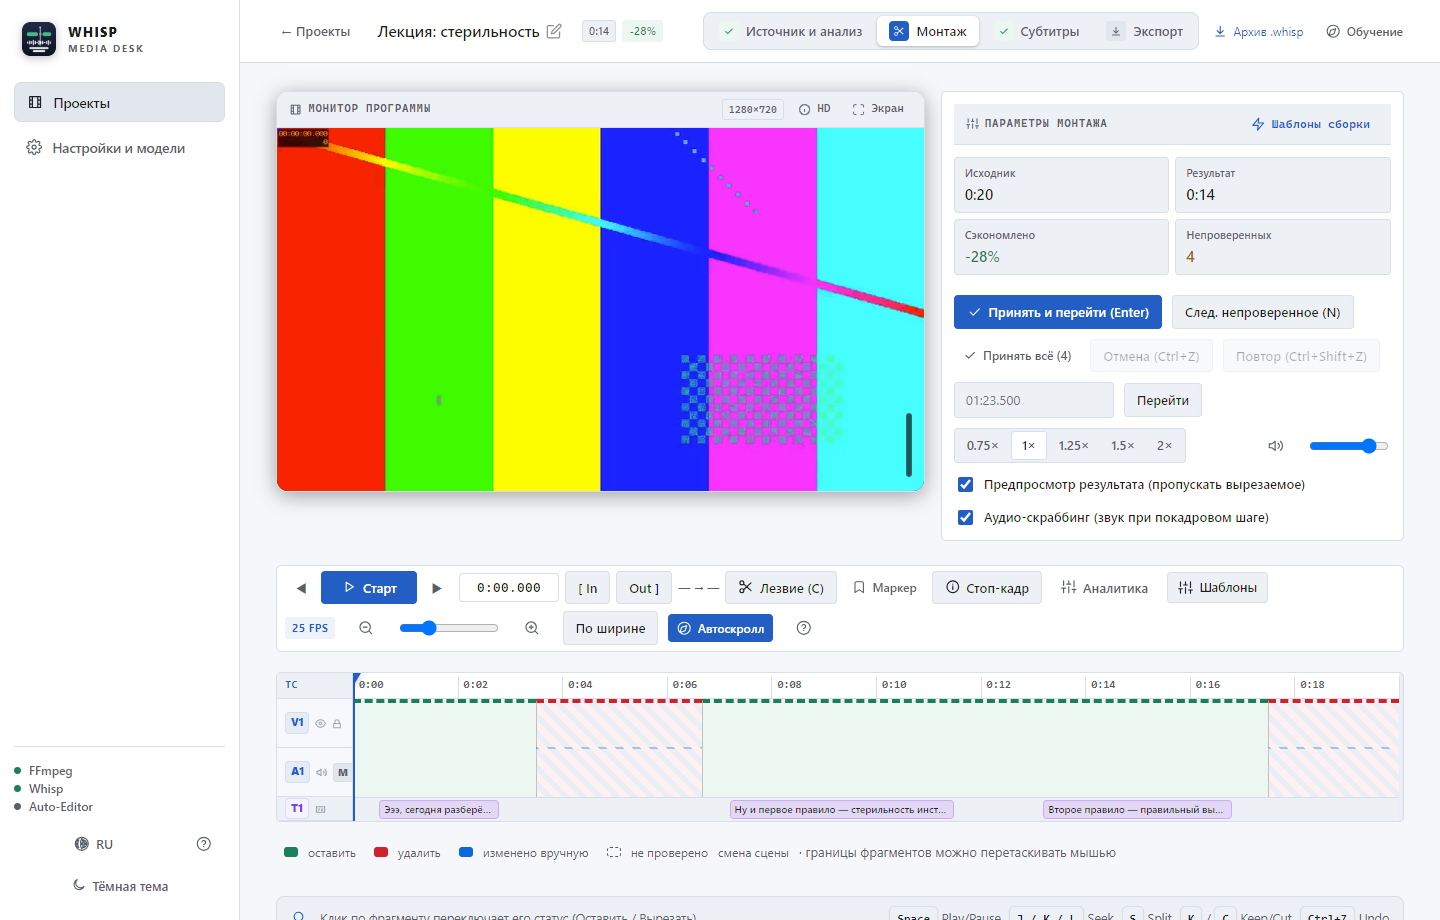
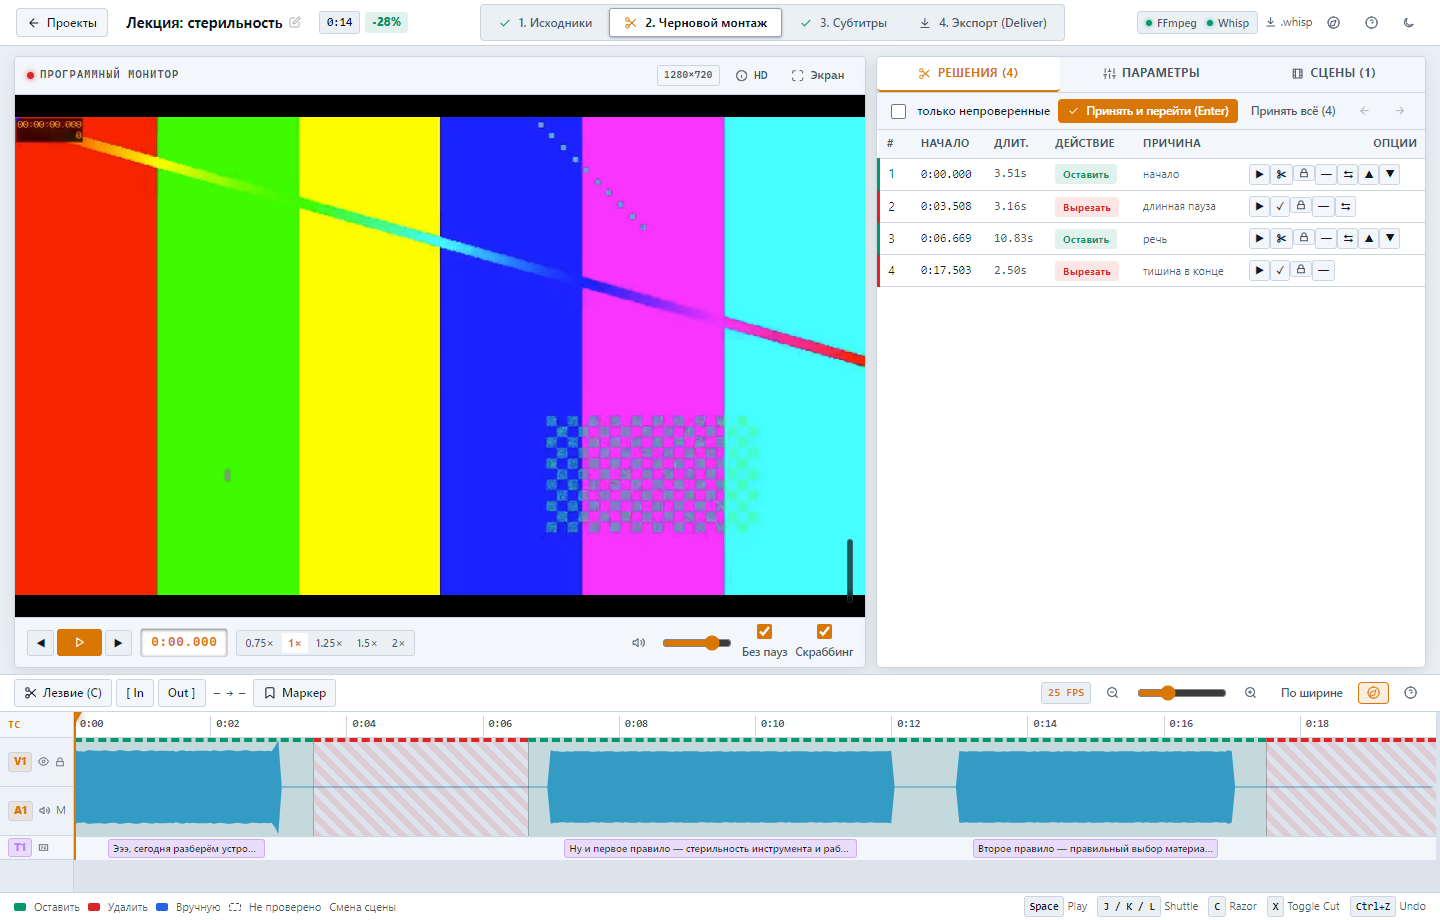
docs: update screenshots, visual gallery, and README for Pro NLE architecture

diff --git a/tools/make_screenshots.py b/tools/make_screenshots.py
@@ -149,11 +149,15 @@ def main() -> None:
                 if name == "03-editor.png":
                     page.screenshot(path=str(out / name))
                     try:
-                        page.get_by_role("button", name=re.compile("Шаблоны")).first.click()
+                        page.locator('button:has-text("Параметры")').first.click()
+                        page.wait_for_timeout(400)
+                        page.locator('button:has-text("шаблоны"), button:has-text("Шаблоны")').first.click()
                         page.wait_for_timeout(800)
                         page.screenshot(path=str(out / "03b-patterns.png"))
-                        page.locator(".panel-header-bar button").first.click()
+                        page.locator(".panel-header-bar button, .modal button:has-text('Отмена'), .modal button:has-text('Cancel')").first.click()
                         page.wait_for_timeout(500)
+                        page.locator('button:has-text("Решения")').first.click()
+                        page.wait_for_timeout(400)
                     except Exception as ex:
                         print("Modal error:", ex)
                     continue
@@ -174,7 +178,7 @@ def main() -> None:
             # 7. Светлая тема (Light theme - демонстрация эргономики 2026)
             page.goto(BASE)
             page.wait_for_timeout(1000)
-            page.get_by_text("Светлая тема").first.click()
+            page.locator('button[title*="Светлая"], button[title*="тема"], button[title*="Theme"]').first.click()
             page.wait_for_timeout(800)
             page.screenshot(path=str(out / "07-light-theme.png"))
 

diff --git a/CHANGELOG.md b/CHANGELOG.md
@@ -1,6 +1,39 @@
 # Журнал изменений
 
-## 1.1.0
+## 2.0.0 (Pro NLE Workstation Release)
+
+- **Архитектура студийной рабочей станции Pro NLE (DaVinci Resolve / Final Cut Pro)**:
+  - **Полноэкранный монолит (Edge-to-Edge)**: убран фиксированный боковой сайдбар на 240px, интерфейс монтажа развернут на 100% площади экрана (`100vw × 100vh`) без лишних веб-отступов и вертикального скролла окна.
+  - **Студийные рабочие комнаты (DaVinci Workspace Pages)**: мгновенное переключение между комнатами в шапке проекта:
+    - `[ 1. ИСХОДНИКИ ]` — выбор файла, детекция пауз, акустические профили.
+    - `[ 2. ЧЕРНОВОЙ МОНТАЖ ]` — основной двухъярусный рабочий стол монтажа.
+    - `[ 3. СУБТИТРЫ ]` — студия субтитров с телесуфлёром и диаризацией говорящих.
+    - `[ 4. ЭКСПОРТ (DELIVER) ]` — экспорт в DaVinci FCPXML, Premiere Pro XML, Final Cut или прямой рендер в MP4.
+  - **Двухъярусная компоновка монтажного стола (Dual-Deck Cut Room)**:
+    - **Верхний ярус (Upper Deck)**:
+      - Программный видеомонитор с индикатором `● REC`, оверлеем субтитров, аппаратным VU-метром (−42 dB .. 0 dB) и встроенной прямо под экраном аппаратной транспортной консолью (`[◀ 1 кадр]  [▶ Play/Pause (Space)]  [1 кадр ▶]  [Скорость 1×–2×]  [Громкость]  [Без пауз]  [Скраббинг]`) и моноширинным LCD-таймкодом с переходом по клику.
+      - Инспектор решений монтажа (Inspector & Decisions) рядом с видеомонитором с вкладками `[ ✂ Решения ]`, `[ ⚙ Параметры & Шаблоны ]`, `[ 🎬 Сцены ]`. Клик по любому фрагменту мгновенно перемещает монитор и плейхед без прокрутки страницы.
+    - **Средний ярус — Тулбар инструментов**:
+      - `✂ Лезвие (C)` — мгновенный разрез фрагмента по курсору.
+      - `[ In` / `Out ]` — установка монтажного диапазона и быстрый рендер отрезка.
+      - `🏷 Маркер (M)` — расстановка ключевых меток на таймлайне.
+      - `📷 HD Кадр` — сохранение стоп-кадра.
+      - Ползунок зума шкалы, автопрокрутка за курсором и счётчик FPS.
+    - **Нижний ярус — Полноразмерный NLE-таймлайн во всю ширину окна**:
+      - Растянут от левого до правого края окна с дорожками `TC` (линейка времени), `V1` (видеодорожка), `A1` (аудиоволна и паузы) и `T1` (субтитры).
+      - Контрастные изумрудные блоки оставленного материала (`Keep`) и штрихованные багровые блоки вырезанной тишины (`Cut`).
+  - **Project Manager (Главный экран в стиле Media Pool DaVinci)**:
+    - Полноформатный темный хаб проектов с фильтрами, сортировкой по длительности и дате, кинематографичной зоной сброса файлов и карточками проектов 16:9 с бейджами сокращения хронометража (`-35%`) и длительности.
+  - **Цветовая палитра DaVinci Obsidian**:
+    - Глубокие графитовые поверхности (`#0c0d10`, `#13151a`, `#1a1d24`, `#222630`) с тонкими металлическими разделителями и световой микрофаской (`inset 0 1px 0 rgba(255, 255, 255, 0.05)`).
+    - Акцентный янтарь DaVinci (`#e58e26`), циановая волна звука (`#00b4d8`), чистый изумруд (`#10b981`) и багровый (`#ef4444`).
+    - Моноширинные таймкоды (`JetBrains Mono / Consolas`).
+    - Светлая студийная тема (Studio Slate/Silver) в стиле Apple Final Cut Pro.
+- **Инженерные улучшения и надежность**:
+  - Полностью локальная акустическая диаризация спикеров на нативном `wave` и чистом NumPy (нулевой оверхед, без `scipy` и `scikit-learn`).
+  - Потокобезопасный корректный Teardown базы данных SQLite при выключении приложения и завершении тестов.
+  - Обновление метаданных PE-ресурсов Windows (версия 2.0.0 во всех файлах и инсталляторе Inno Setup).
+  - 100% прохождение всех 98 тестов бэкенда и чистая сборка фронтенда в GitHub Actions.
 
 - **Фоновая музыка с умным авто-приглушением (BGM with Auto-Ducking)**:
   - Добавление подложки фоновой музыки с бесконечным циклом (`-stream_loop -1`).

diff --git a/README.md b/README.md
@@ -47,24 +47,26 @@ flowchart LR
 
 ---
 
-## Интерфейс
+## Интерфейс рабочей станции Pro NLE
 
-| Интерактивный таймлайн и аудио-скраббинг | Пресеты авто-монтажа по паттернам |
+Интерфейс спроектирован по канонам профессиональных систем видеомонтажа (DaVinci Resolve Studio, Apple Final Cut Pro): полноэкранный монолит (Edge-to-Edge) без лишних веб-отступов, четыре студийные комнаты (`Исходники` → `Монтаж` → `Субтитры` → `Экспорт`), двухъярусная компоновка с программным видеомонитором и инспектором решений монтажа, полноразмерный многодорожечный таймлайн во всю ширину окна и аппаратный VU-метр.
+
+| Двухъярусный монтажный стол и полноразмерный NLE-таймлайн | Умные шаблоны авто-монтажа (Shorts, Подкаст) |
 |:---:|:---:|
 | ![Монтаж](docs/03-editor.png) | ![Паттерны сборки](docs/03b-patterns.png) |
 
-| Текстовый монтаж и диаризация | Панель экспорта и сведение звука |
+| Студия субтитров с телесуфлёром и диаризацией | Панель экспорта (Deliver Room) и сведение звука |
 |:---:|:---:|
 | ![Субтитры](docs/04-subtitles.png) | ![Экспорт](docs/05-export.png) |
 
 <details>
-<summary>Дополнительные экраны (светлая тема, список проектов, настройки моделей)</summary>
+<summary>Дополнительные экраны (Project Manager, светлая тема, параметры анализа, модели)</summary>
 
-| Темная студийная тема | Светлая контрастная тема |
+| Project Manager (Media Pool в стиле DaVinci) | Project Manager в светлой теме (Final Cut Slate) |
 |:---:|:---:|
 | ![Темная тема](docs/01-projects.png) | ![Светлая тема](docs/07-light-theme.png) |
 
-| Монтаж в светлой теме | Параметры детекции речи |
+| Монтажный стол в светлой теме | Комната исходников и анализа (Media Setup) |
 |:---:|:---:|
 | ![Монтаж в светлой теме](docs/08-editor-light.png) | ![Настройка](docs/02-setup.png) |
 
@@ -92,6 +94,16 @@ flowchart LR
 ---
 
 ## Основные возможности
+
+### 0. Архитектура Pro NLE Workstation (DaVinci Resolve / Final Cut Pro)
+* **Полноэкранный монолит (Edge-to-Edge)**: 100% полезной площади экрана (`100vw × 100vh`) без боковых веб-панелей и скролла страницы.
+* **Студийные комнаты (DaVinci Workspaces)**: выделенные оптимизированные пространства: `[ 1. Исходники ]`, `[ 2. Черновой монтаж ]`, `[ 3. Субтитры ]` и `[ 4. Экспорт ]`.
+* **Двухъярусный монтажный стол**:
+  * Программный видеомонитор с индикатором `● REC`, аппаратной консолью покадрового шага (`◀` / `▶`), моноширинным LCD-таймкодом и оверлеем субтитров.
+  * Инспектор решений монтажа рядом с видеомонитором с мгновенной навигацией по клику без скролла экрана.
+  * Многодорожечный NLE-таймлайн во всю ширину окна (`TC`, `V1`, `A1`, `T1`) с аудиоволной и цветной маркировкой склеек.
+* **Стерео-индикатор пикового уровня (Audio Peak VU Meter)**: аналоговый отклик от −42 dB до 0 dB с индикацией клиппинга.
+* **Project Manager (Media Pool)**: быстрый хаб управления проектами с поиском, сортировкой и кинематографичным дроп-баннером.
 
 ### 1. Автоматический черновой монтаж
 * Анализ голосовой активности (Silero VAD и пороговый энергетический фильтр).

diff --git a/README.en.md b/README.en.md
@@ -47,24 +47,26 @@ flowchart LR
 
 ---
 
-## User Interface
+## Pro NLE Workstation Interface
 
-| Interactive Studio Timeline & Audio Scrubbing | Assembly Pattern Presets |
+Engineered following professional non-linear editing paradigms (DaVinci Resolve Studio, Apple Final Cut Pro): edge-to-edge layout (`100vw × 100vh`) with no wasted web margins, four dedicated studio rooms (`Media Setup` → `Cut Room` → `Caption Studio` → `Deliver Room`), dual-deck layout with program video monitor and decision inspector, full-width multi-track timeline, and hardware stereo VU meter.
+
+| Dual-Deck Cut Workstation & Full-Width NLE Timeline | Assembly Pattern Presets (Shorts, Podcast) |
 |:---:|:---:|
 | ![Timeline](docs/03-editor.png) | ![Patterns](docs/03b-patterns.png) |
 
-| Text-Based Editing & Diarization | Export Panel & Audio Mastering |
+| Caption Studio with Teleprompter & Diarization | Deliver Room & Audio Mastering |
 |:---:|:---:|
 | ![Subtitles](docs/04-subtitles.png) | ![Export](docs/05-export.png) |
 
 <details>
-<summary>Additional Screens (Light Theme, Project List, Model Settings)</summary>
+<summary>Additional Screens (Project Manager, Light Theme, Setup, Neural Models)</summary>
 
-| Dark Studio Theme | Light Studio Theme |
+| Project Manager (DaVinci Media Pool Style) | Project Manager in Light Theme (Final Cut Slate) |
 |:---:|:---:|
 | ![Dark Theme](docs/01-projects.png) | ![Light Theme](docs/07-light-theme.png) |
 
-| Light Theme Timeline Editor | Speech Detection Parameters |
+| Light Theme Timeline Workstation | Media Setup & Acoustic Analysis Room |
 |:---:|:---:|
 | ![Light Editor](docs/08-editor-light.png) | ![Setup](docs/02-setup.png) |
 
@@ -92,6 +94,16 @@ flowchart LR
 ---
 
 ## Core Features
+
+### 0. Pro NLE Workstation Architecture (DaVinci Resolve / Final Cut Pro)
+* **Edge-to-Edge Desktop Shell**: 100% viewport space utilization (`100vw × 100vh`) with zero web sidebars or vertical window scroll.
+* **Studio Workspaces (DaVinci Workflow)**: Dedicated rooms: `[ 1. Media Setup ]`, `[ 2. Cut & Edit ]`, `[ 3. Caption Studio ]`, and `[ 4. Deliver ]`.
+* **Dual-Deck Cut Room**:
+  * Program Monitor with `● REC` indicator, frame-stepping transport console (`◀` / `▶`), monospace LCD timecode, and live subtitles overlay.
+  * Inspector & Decision List placed side-by-side with video monitor for instant click-to-seek navigation.
+  * Multi-track NLE Timeline spanning 100% window width (`TC`, `V1`, `A1`, `T1`) with acoustic waveform and color-coded cuts.
+* **Stereo Peak VU Meter**: Real-time dB response (−42 dB .. 0 dB) with peak clipping indicator.
+* **Project Manager (Media Pool)**: Fast media hub with instant search, sorting, and cinematic drag-and-drop ingestion.
 
 ### 1. Automated Rough-Cut Assembly
 * Multi-stage voice activity detection (Silero VAD combined with energy thresholding).
